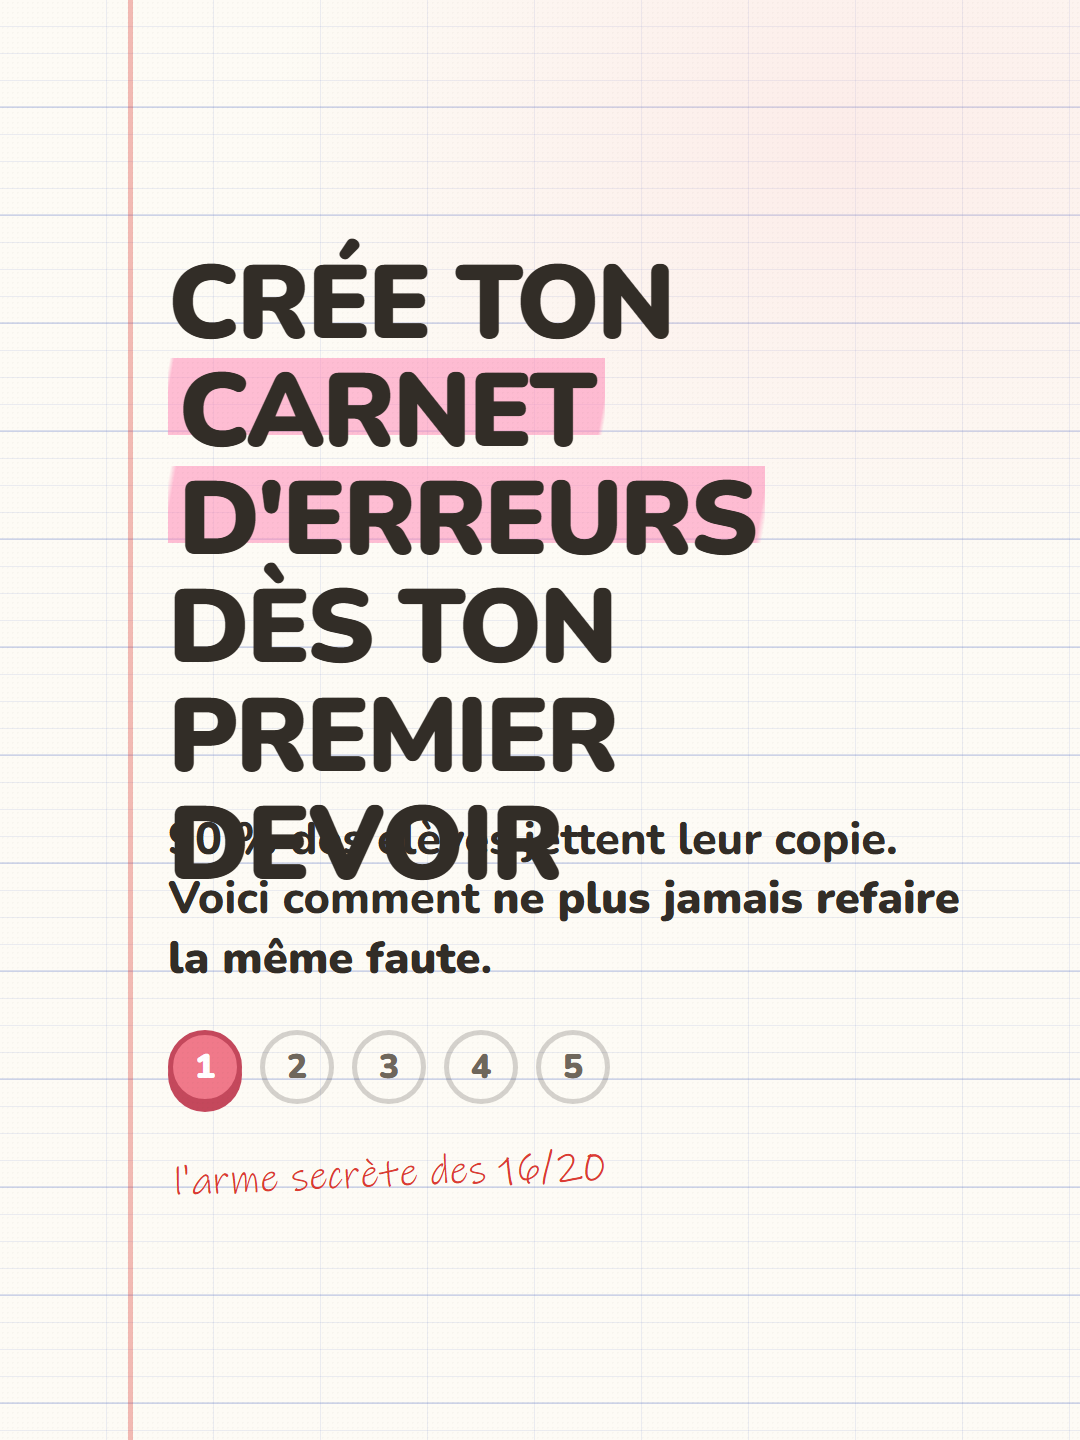
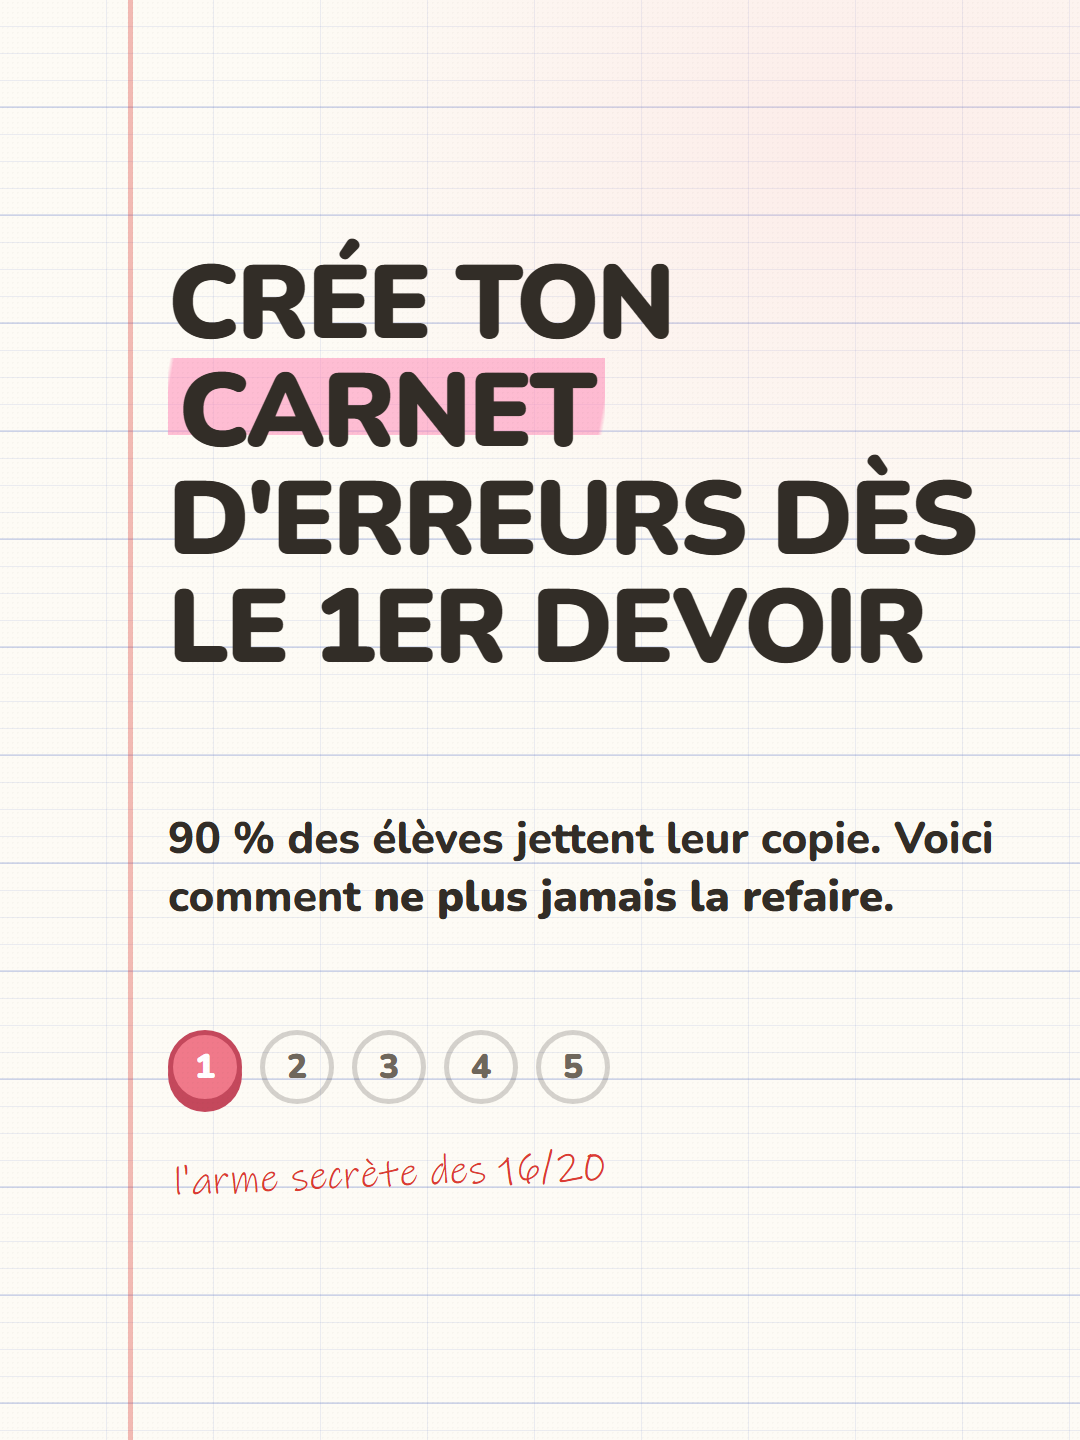
carnet-erreurs : ajustement mise en page slide 01 sans chevauchement

Changed region(s): [[0.1528, 0.3125, 0.9167, 0.6875]]

diff --git a/posts/carnet-erreurs/html/01.html b/posts/carnet-erreurs/html/01.html
@@ -10,8 +10,8 @@
     font-size: 104px; line-height: 1.04; z-index: 25;
   }
   .accroche {
-    position: absolute; left: 168px; top: 810px; width: 800px; z-index: 30;
-    font-size: 45px; line-height: 1.32; font-weight: 800; color: var(--eel);
+    position: absolute; left: 168px; top: 810px; width: 850px; z-index: 30;
+    font-size: 44px; line-height: 1.32; font-weight: 800; color: var(--eel);
   }
   .accroche b { font-weight: 900; }
   .compteur {
@@ -36,13 +36,13 @@
 
   <h1 class="title display">
     Cr&eacute;e ton<br>
-    <span class="hl r">carnet d'erreurs</span><br>
-    d&egrave;s ton premier<br>
-    devoir
+    <span class="hl r">carnet</span><br>
+    d'erreurs d&egrave;s<br>
+    le 1er devoir
   </h1>
 
   <p class="accroche">90&nbsp;% des &eacute;l&egrave;ves jettent leur copie.
-  Voici comment <b>ne plus jamais refaire la m&ecirc;me faute</b>.</p>
+  Voici comment <b>ne plus jamais la refaire</b>.</p>
 
   <div class="compteur">
     <div class="e on">1</div>
